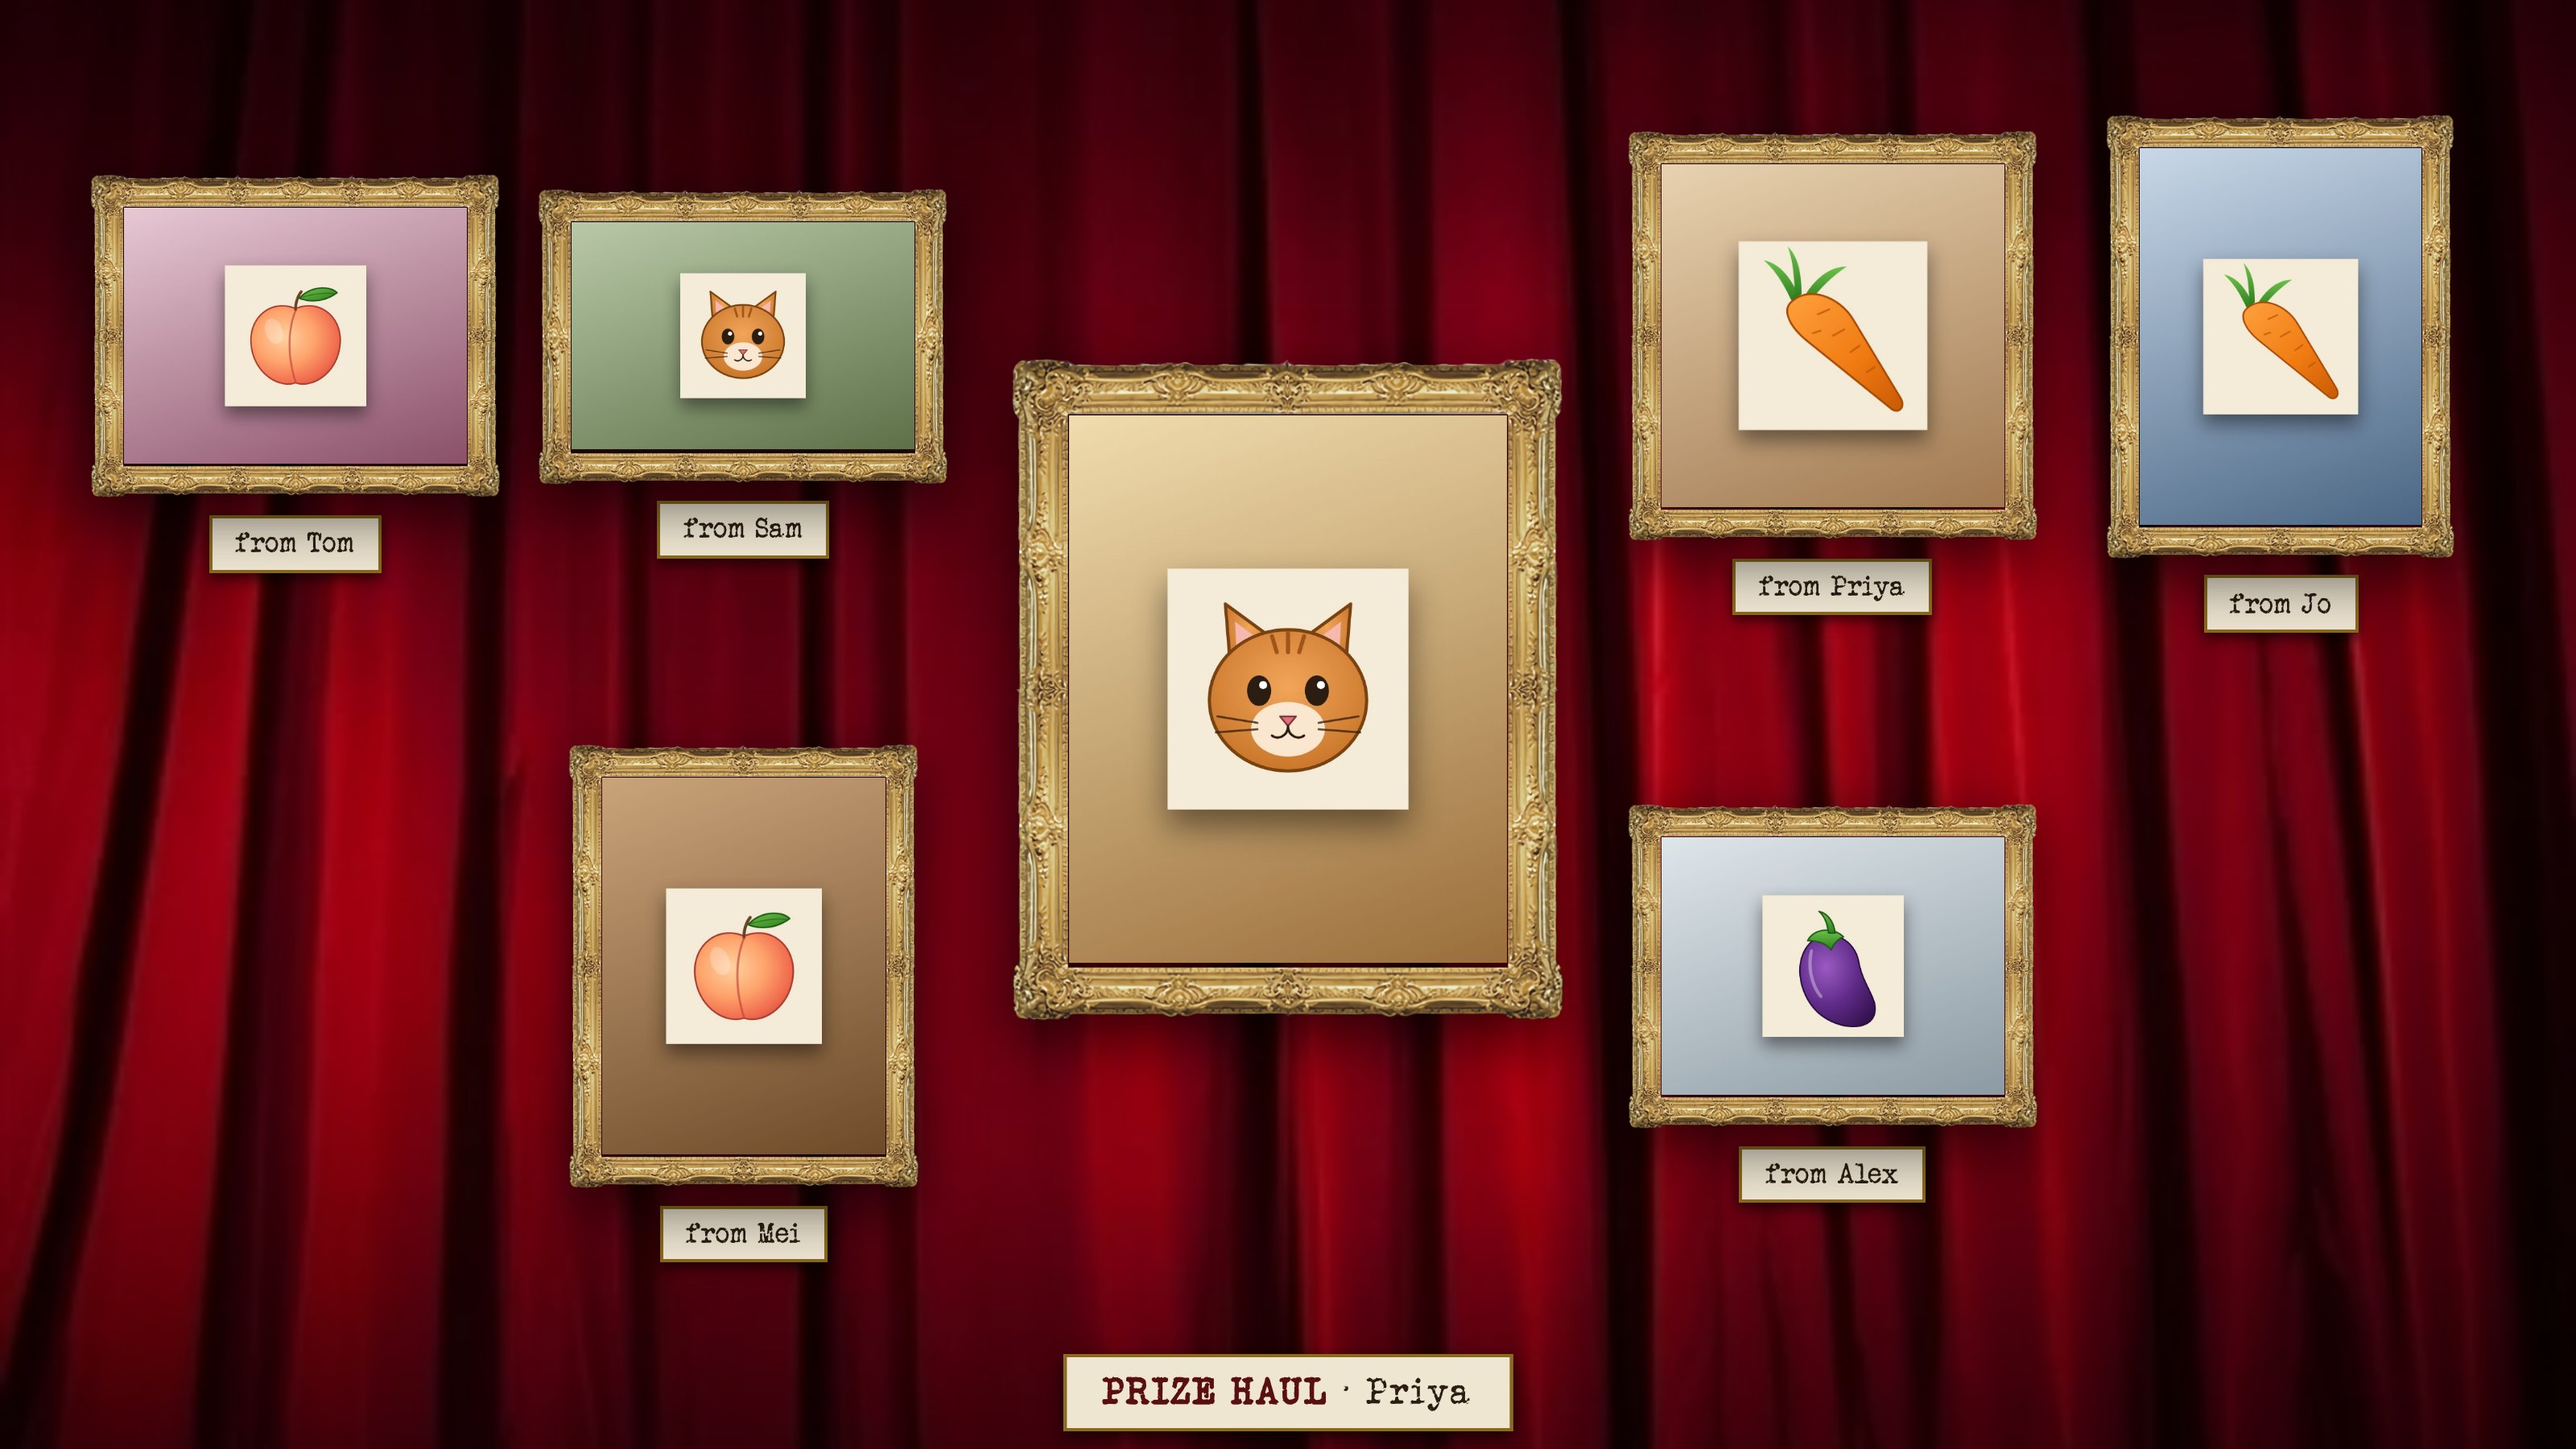
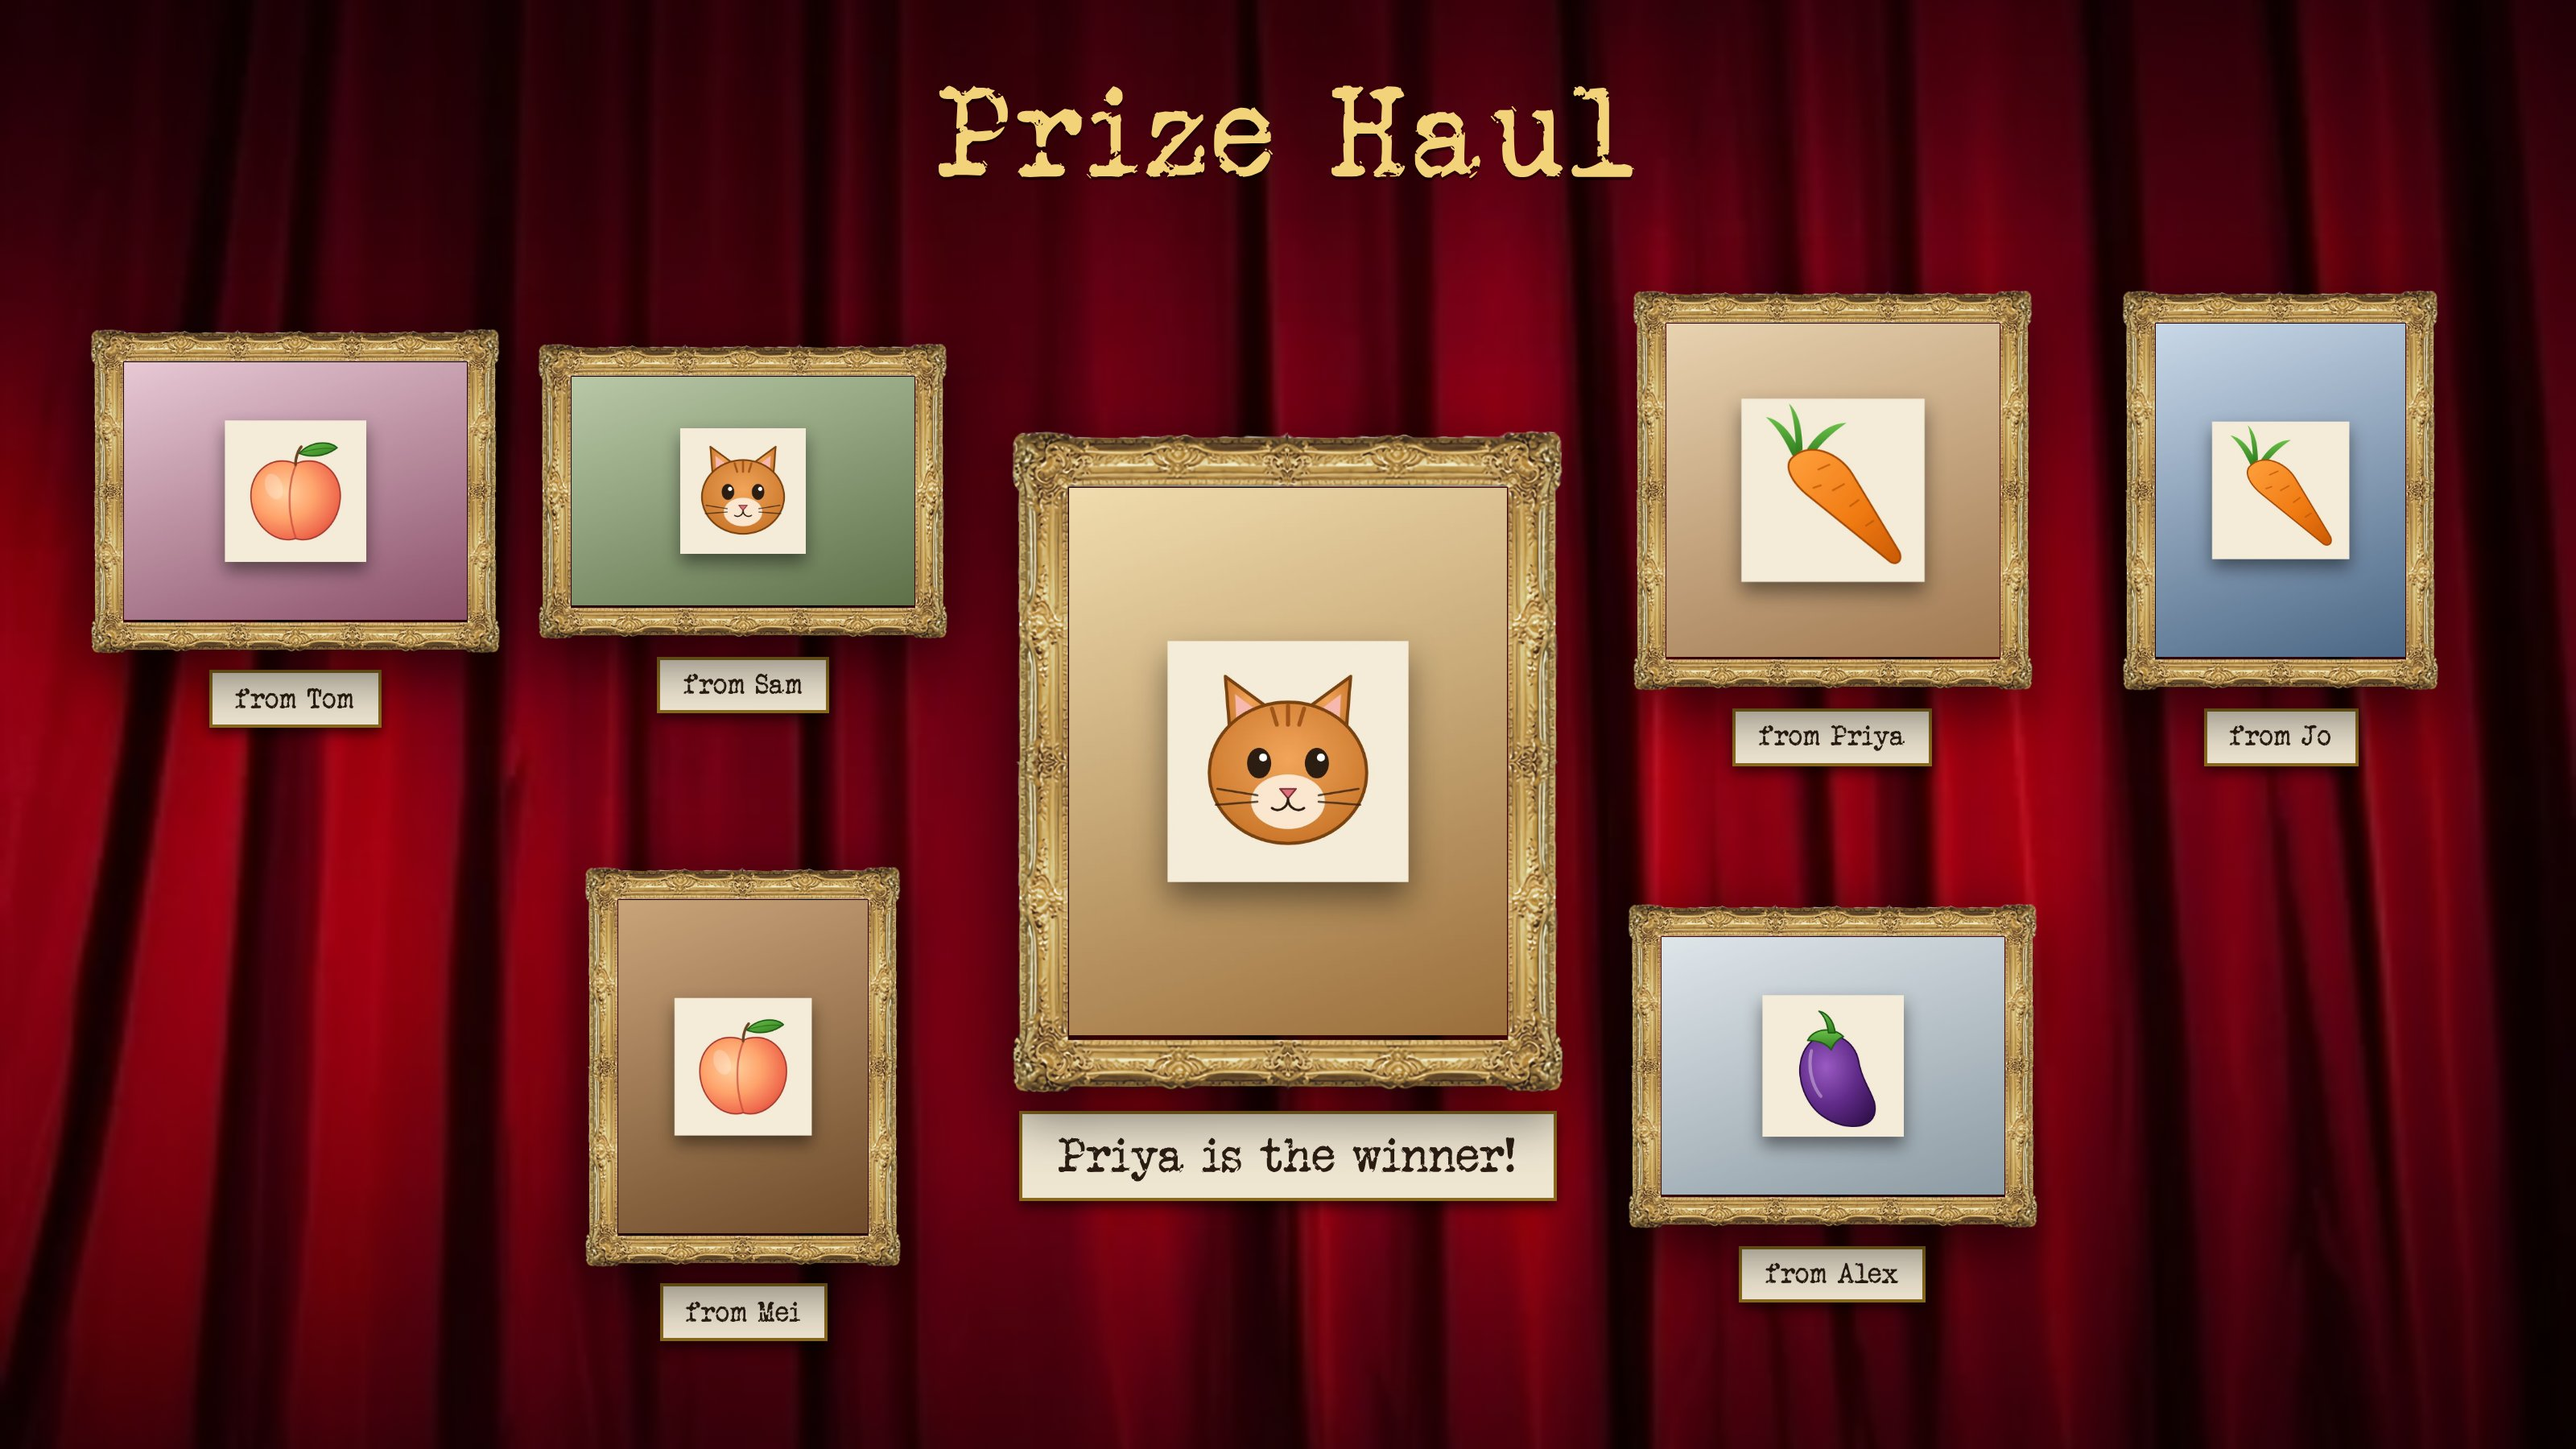
Prize haul: a Prize Haul title and "Priya is the winner!" under the portrait
Claude-Session: https://claude.ai/code/session_014ghUjXRQwwSCMqfFBR6KAW

diff --git a/src/styles.css b/src/styles.css
@@ -325,18 +325,20 @@ input::placeholder { color: #8b7a63; }
 /* ---- main screen: the prize haul ---- */
 /* a gallery wall (each frame hugs its photo, never cropped): the winner's headshot in the centre column, the prizes hung in the columns either side */
 .stage.haul {
-  grid-template-columns: repeat(var(--side), minmax(0, 1fr)) minmax(0, 1.5fr) repeat(var(--side), minmax(0, 1fr)); grid-template-rows: repeat(2, minmax(0, 1fr));
-  place-items: center; gap: 2vh 2.5vw; padding: 5vh 4vw 10vh; box-sizing: border-box;
+  grid-template-columns: repeat(var(--side), minmax(0, 1fr)) minmax(0, 1.5fr) repeat(var(--side), minmax(0, 1fr)); grid-template-rows: auto repeat(2, minmax(0, 1fr));
+  place-items: center; gap: 2vh 2.5vw; padding: 3vh 4vw 5vh; box-sizing: border-box;
 }
 .haul figure { margin: 0; display: grid; justify-items: center; gap: 1.2vh; animation: hang 0.7s cubic-bezier(0.2, 0.9, 0.3, 1.15) backwards; animation-delay: calc(var(--i) * 0.6s); }
-.haul-winner { grid-row: 1 / span 2; }
+.haul-winner { grid-row: 2 / span 2; }
+.haul-title { grid-column: 1 / -1; margin: 0; font-size: clamp(2.5rem, 9vmin, 7rem); animation: hang 0.7s cubic-bezier(0.2, 0.9, 0.3, 1.15) backwards; }
+.haul .haul-winner figcaption { font-size: clamp(1.2rem, 3.4vmin, 2.6rem); padding: 0.3rem 1.4rem; }
 .haul-frame { --bw: clamp(12px, 2.4vmin, 32px); border: var(--bw) solid transparent; border-image: url("./assets/frame.png") 100 / var(--bw) round; background: #1a0f08; background-clip: padding-box; filter: drop-shadow(0 12px 20px rgba(0, 0, 0, 0.7)); line-height: 0; }
-.haul-frame img { display: block; width: auto; height: auto; max-height: 26vh; max-width: calc(88vw / (2 * var(--side) + 1.5) - 2 * var(--bw)); object-fit: contain; }
+.haul-frame img { display: block; width: auto; height: auto; max-height: 23vh; max-width: calc(88vw / (2 * var(--side) + 1.5) - 2 * var(--bw)); object-fit: contain; }
 .haul-winner .haul-frame { --bw: clamp(18px, 4vmin, 56px); }
-.haul-winner .haul-frame img { max-height: 60vh; max-width: calc(88vw * 1.5 / (2 * var(--side) + 1.5) - 2 * var(--bw) - 2.5vw); }
+.haul-winner .haul-frame img { max-height: 52vh; max-width: calc(88vw * 1.5 / (2 * var(--side) + 1.5) - 2 * var(--bw) - 2.5vw); }
 /* the gallery placard under each prize */
 .haul figcaption { background: var(--paper); color: var(--ink); border: 2px solid var(--gold-dark); padding: 0.2rem 0.9rem; font-family: var(--typewriter); font-size: clamp(0.9rem, 2vmin, 1.5rem); box-shadow: 0 3px 8px #000a; }
-@media (prefers-reduced-motion: reduce) { .haul figure { animation: none; } }
+@media (prefers-reduced-motion: reduce) { .haul figure, .haul-title { animation: none; } }
 .sound-hint { position: absolute; top: 1rem; left: 50%; transform: translateX(-50%); z-index: 2; background: var(--paper); color: var(--ink); border: 2px solid var(--gold-dark); padding: 0.4rem 1rem; font-family: var(--typewriter); box-shadow: 0 4px 10px #000a; }
 
 /* ---- phones ---- */

diff --git a/src/games/prize/Stage.tsx b/src/games/prize/Stage.tsx
@@ -24,7 +24,8 @@ export function PrizePhoto({ name, photo }: { name: string; photo: string }) {
  * Main screen, at the end of the party: the winner's prize haul as a gallery wall. The winner's headshot
  * hangs first in the centre, then every prize's ★ photo hangs around it one by one, like pictures going
  * up in a gallery, each with a small paper placard naming who brought it. The winner's own prize is part
- * of the haul. Guests with no prize photo are left out.
+ * of the haul. Guests with no prize photo are left out. "Prize Haul" heads the wall, and the winner's
+ * portrait has its own, larger placard: "Priya is the winner!".
  */
 export function Haul({ winner, headshot, prizes }: { winner: string; headshot?: string; prizes: { from: string; photo: string }[] }) {
   // Two rows of prizes either side of the headshot, filled from the centre outwards, alternating sides,
@@ -32,12 +33,14 @@ export function Haul({ winner, headshot, prizes }: { winner: string; headshot?: 
   const side = Math.max(1, Math.ceil(prizes.length / 4));
   const place = (k: number) => {
     const ring = Math.floor(k / 4), j = k % 4;
-    return { gridRow: Math.floor(j / 2) + 1, gridColumn: j % 2 === 0 ? side - ring : side + 2 + ring };
+    return { gridRow: Math.floor(j / 2) + 2, gridColumn: j % 2 === 0 ? side - ring : side + 2 + ring };
   };
   return (
     <main className="stage haul" style={{ "--side": side } as React.CSSProperties}>
+      <h1 className="haul-title">Prize Haul</h1>
       <figure className="haul-winner" style={{ "--i": 0, gridColumn: side + 1 } as React.CSSProperties}>
         <div className="haul-frame"><SafeImg src={headshot ?? ""} alt={winner} /></div>
+        <figcaption>{winner} is the winner!</figcaption>
       </figure>
       {prizes.map((p, i) => (
         <figure key={p.from} className="haul-prize" style={{ "--i": i + 1, ...place(i) } as React.CSSProperties}>
@@ -45,7 +48,6 @@ export function Haul({ winner, headshot, prizes }: { winner: string; headshot?: 
           <figcaption>from {p.from}</figcaption>
         </figure>
       ))}
-      <div className="stage-label"><span>prize haul</span> · {winner}</div>
     </main>
   );
 }

diff --git a/docs/redesign-decisions.md b/docs/redesign-decisions.md
@@ -233,7 +233,7 @@ Each contestant brings a prize; the winner takes the whole haul. Today the Prize
 | Everyone at once | No "◫ Show everyone" during presenting. Everyone's prizes are shown together only as the haul at the end of the party. | Everyone's ★ photos as a grid during the task. |
 | When the haul shows | At the end of the party, when the winner is declared. | At the end of the prize task, once every prize has been talked through (briefly agreed, then Jeffrey settled on the end of the party). |
 | The winner | The scoreboard's leader after the last update. A tie at the top is settled first by a tiebreaker task for just the tied contestants (to be designed); the haul waits for one winner. | The host always picking the winner on the remote. The host tapping one of the tied contestants: a tie is played off, as on the show. |
-| The haul (big screen) | A gallery wall on the curtain: the winner's headshot in a large gold frame in the centre, then each prize's ★ photo in a smaller gold frame, two rows either side, each with a small paper placard "from Sam". The winner's own prize is included; guests with no photo are left out. Frames hug their photos, never cropped. The label reads "PRIZE HAUL · Priya". *Proposed.* | |
+| The haul (big screen) | A gallery wall on the curtain: the winner's headshot in a large gold frame in the centre, then each prize's ★ photo in a smaller gold frame, two rows either side, each with a small paper placard "from Sam". "Prize Haul" heads the wall as a big gold title, and the winner's portrait has a larger placard, "Priya is the winner!". The winner's own prize is included; guests with no photo are left out. Frames hug their photos, never cropped. *Proposed.* | The usual paper strip at the bottom ("PRIZE HAUL · Priya", the first version): too small for the moment, and it didn't say who won. |
 | Hanging the haul | One by one, like a gallery being hung: the headshot first, then a prize every 0.6s (the usual hang animation), filling from the centre outwards and alternating sides. With reduced motion, everything appears at once. | All at once: one by one builds the moment. |
 | A prize picked (host) | On a wide iPad: the list on the left, and "Priya's prize" on the right with her photos as large previews in her order, ★ on the first. "Tap a photo to put it on the big screen." Then a paper "+ Add photos" and "Lower the curtain" (disabled while nothing is up). No gold until a photo is on the big screen, which then gets the gold ring. Tapping another name switches straight to them. On a phone the two stack. *Proposed.* | A separate screen per contestant (Before & After's): jumping from one guest to another would need a trip back to the list. |
 | A photo up | Tapping a preview hangs that photo in the gold frame on the big screen, labelled "prize · Priya", as a headshot hangs. On the remote it gets the gold ring and "on the big screen", the line above the list reads "On the big screen: Priya's prize, photo 2", and "Lower the curtain" wakes up. Tapping another preview (or another guest's) switches straight to it. *Proposed.* | Previous / Next on the stage's backup bar: the host picks each photo, so there's no order to step through. |

diff --git a/docs/screens/README.md b/docs/screens/README.md
@@ -77,5 +77,5 @@ Scoreboard (taken on 2026-10-12, from the real components with made-up sessions;
 | `prize-host-picked.jpg` | Prize task on the iPad: the contestants in no set order beside Priya's prize, her photos as previews with ★, nothing on the big screen yet (in design; stand-in photos) |
 | `prize-host-up.jpg` | Prize task on the iPad with Priya's second photo on the big screen: gold ring and "on the big screen", Lower the curtain enabled (in design; stand-in photos) |
 | `prize-main-photo.jpg` | Main screen: one prize photo hung in the gold frame, labelled "prize · Priya" (in design; stand-in photo) |
-| `main-prize-haul.jpg` | Main screen at the end of the party: the prize haul, the winner's headshot in the centre and every prize's ★ photo hung around it with "from Sam" placards (in design; stand-in photos) |
+| `main-prize-haul.jpg` | Main screen at the end of the party: "Prize Haul" across the top, the winner's headshot in the centre with "Priya is the winner!" and every prize's ★ photo hung around it with "from Sam" placards (in design; stand-in photos) |
 | `main-prize-haul-hanging.jpg` | The same haul mid-way through hanging, the prizes going up one by one from the centre outwards (in design) |
